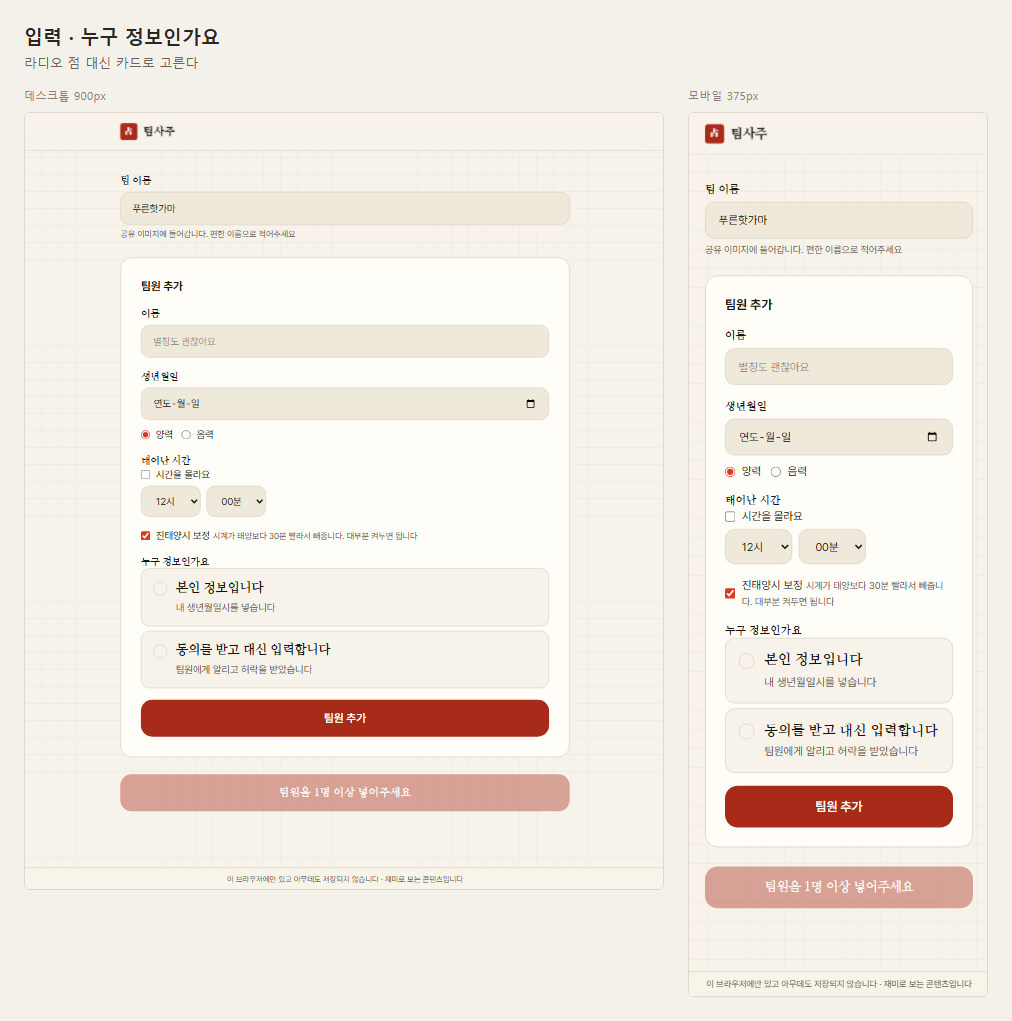
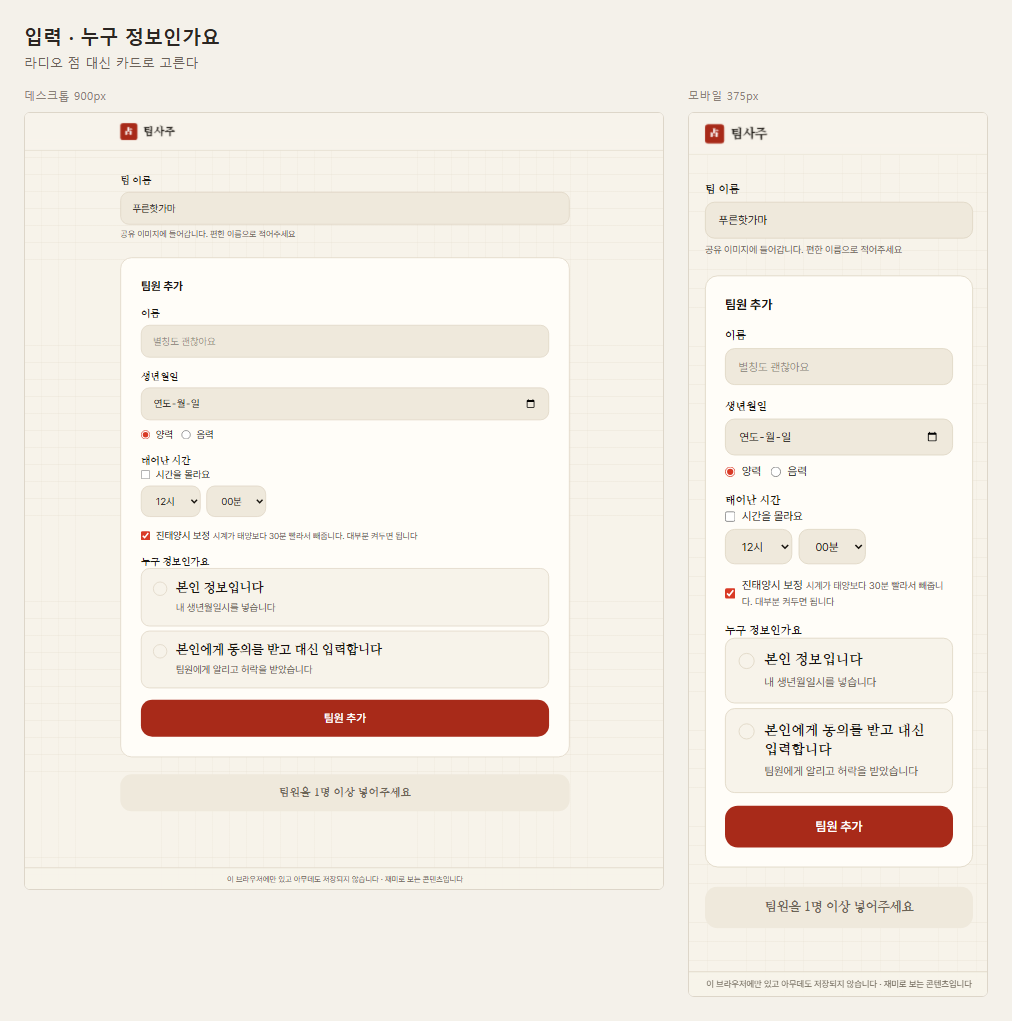
docs: PRD 의 동의 모달을 랜딩 체크박스로
06-privacy.md 와 02-architecture.md 는 고쳤는데 PRD 가 남아 있었다.
F0.1 이 "최초 진입 동의 모달" 이라 코드와 어긋난다.

캡쳐도 비활성 버튼 색이 바뀐 걸로 다시 뽑았다.

Changed region(s): [[0.6739, 0.6983, 0.9802, 0.9109], [0.0919, 0.7591, 0.582, 0.8198], [0.1838, 0.6072, 0.3676, 0.6376]]

diff --git a/docs/01-prd.md b/docs/01-prd.md
@@ -35,7 +35,7 @@
 
 | ID | 요구사항 | 수용 기준 |
 |---|---|---|
-| F0.1 | 최초 진입 동의 모달 | 수집 항목, 목적, 보관 위치, 보관 기간, 거부 권리, 만 14세 고지. 동의 전에는 입력 화면 진입 불가 |
+| F0.1 | 랜딩 동의 체크박스 + 상세 보기 모달 | 수집 항목, 목적, 보관 위치, 보관 기간, 거부 권리, 만 14세 고지. 동의 전에는 입력 화면 진입 불가 |
 | F0.2 | 다크패턴 금지 | 체크박스 기본 해제. 동의 버튼과 거부 버튼 시각적 비중 동일 |
 | F0.3 | 동의 버전 관리 | 저장된 version이 현재보다 낮으면 재동의 모달 |
 | F0.4 | 팀원별 대리 입력 확인 | "본인 정보" / "본인 동의 받고 대신 입력" 라디오 필수. 미선택 시 저장 비활성 |
@@ -116,7 +116,8 @@
 ## 화면
 
 - 랜딩: 히어로 + 3단계 설명 카드 + 재미 콘텐츠 고지
-- 동의 모달: 최초 1회. 수집 항목과 보관 위치 명시, 동의 전 진입 차단
+- 동의: 랜딩 하단 체크박스 1개. 옆의 상세 보기로 수집 항목과 보관 위치를 모달에서 본다.
+  체크 전에는 팀 만들기가 안 눌린다
 - 입력: 좌측 팀원 리스트, 우측 입력 폼, 하단 고정 CTA + 상시 고지 문구
 - 결과: 탭 3개로 개인 / 팀 지도 / 리포트. 개인 탭은 내부 전용
 - 공유 뷰: 별도 화면. 팀 유형, 오행 레이더, 강점, 처방, 조합 집계, 유입 CTA
